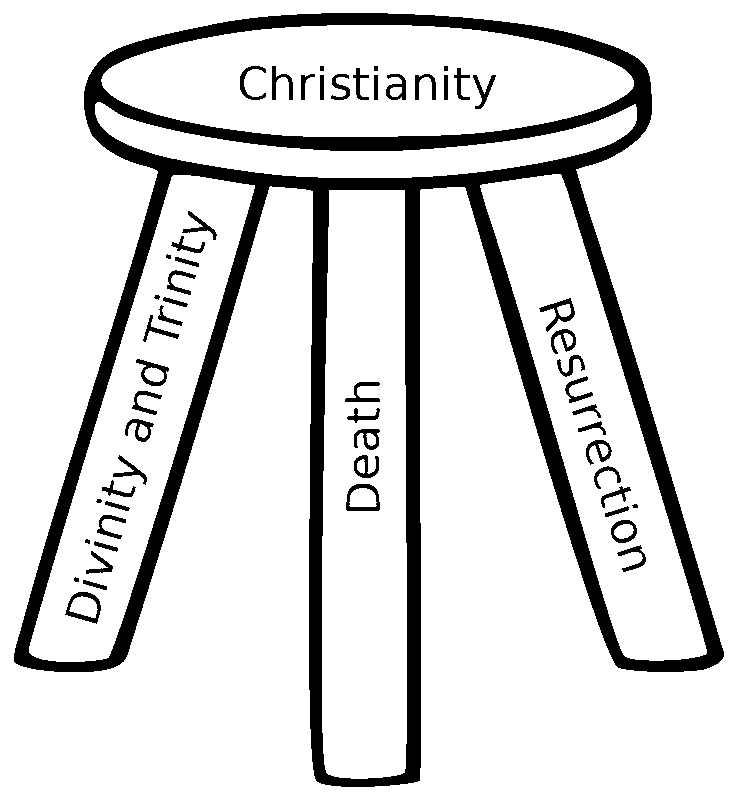
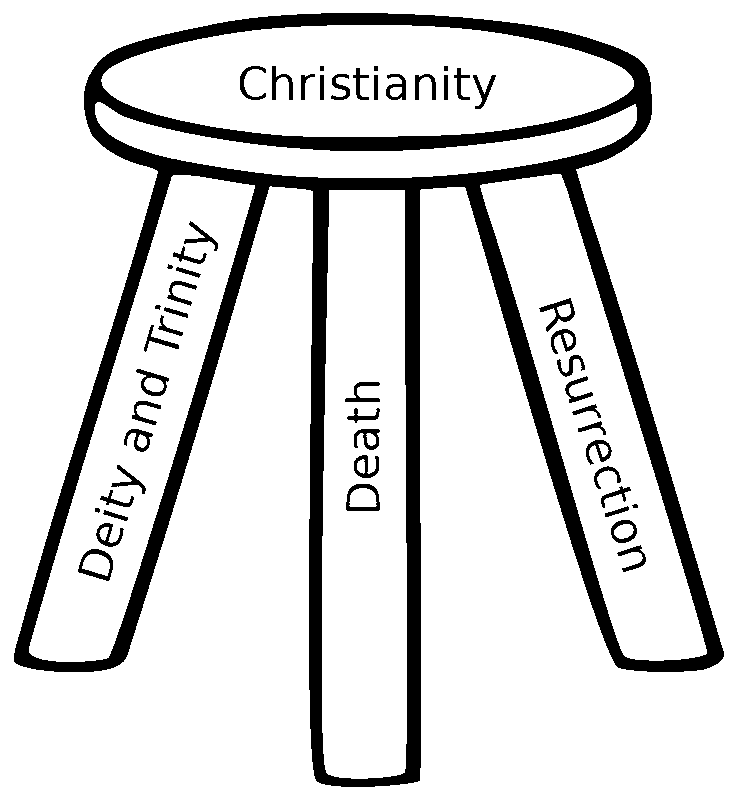
Add content, correct typos

Changed region(s): [[0.0935, 0.25, 0.3117, 0.7812]]

diff --git a/CriticalThinking.html b/CriticalThinking.html
@@ -1,4 +1,4 @@
-<html>
+<html >
 <head>
 	<title>Critical Thinking</title>
 	<link rel="stylesheet" type="text/css" href="static/admin/css/dashboard.css" >
@@ -18,22 +18,19 @@
 		.append($('<a>').attr({"href":"#PartsCriticalThinking"}).text("Parts of Critical Thinking").css({"fontSize":15,"font-weight":"bold"}))))
 		.append($('<div>').attr({"class":"row"})
 		.append($('<div>').attr({"style":"margin-left:25px;"})
-		.append($('<a>').attr({"href":"#ProofEvidence"}).text("Proof vs Evidence").css({"fontSize":15,"font-weight":"bold"}))))
-		.append($('<div>').attr({"class":"row"})
-		.append($('<div>').attr({"style":"margin-left:25px;"})
 		.append($('<a>').attr({"href":"#TypesReasoning"}).text("Types of Reasoning").css({"fontSize":15,"font-weight":"bold"}))))
 		.append($('<div>').attr({"class":"row"})
 		.append($('<div>').attr({"style":"margin-left:25px;"})
-		.append($('<a>').attr({"href":"#BoundariesAuthority"}).text("Boundaries of Authority").css({"fontSize":15,"font-weight":"bold"}))))
+		.append($('<a>').attr({"href":"#TerminologyRegardingFacts"}).text("Terminology Regarding Facts").css({"fontSize":15,"font-weight":"bold"}))))
 		.append($('<div>').attr({"class":"row"})
 		.append($('<div>').attr({"style":"margin-left:25px;"})
-		.append($('<a>').attr({"href":"#MythFact"}).text("Myth vs Fact").css({"fontSize":15,"font-weight":"bold"}))));
+		.append($('<a>').attr({"href":"#BoundariesAuthority"}).text("Boundaries of Authority").css({"fontSize":15,"font-weight":"bold"}))))
 		
 	}
 </script>
 
 
-<body onload="init_page_critcal_thinking()">
+<body onload="init_page_critcal_thinking()", spellcheck="true">
 	<div class="container-fluid">
 	    <div class="row">
 			<div id="SideBarMenu", class="col-md-2", style="border: 1px solid;">
@@ -57,28 +54,13 @@
 						<br>
 						<ol>
 							<li><b>Facts</b> from a source that is trusted and independent.  It is crucial that the source be independent, which, in this context, generally means secular, as opposed to a religious source that could be biased towards Christianity.</li>
-							<li><b>Logical reasoning</b>, in it’s various forms, to analyze claims against Christianity and to create strong claims for Christianity using independent facts.  However, we must also understand that it is impossible to logically prove matters of faith, as once the foundations of Christianity are proven true, it is no longer a matter faith.  Indeed, God may have intentionally set up the universe such that His existence can <b>not</b> be proven.</li>
+							<br>
+							<li><b>Logical reasoning</b>, in it’s various forms, to analyze claims against Christianity and to create strong claims for Christianity using independent facts.  However, we must also understand that it is impossible to logically prove matters of faith, as once the foundations of Christianity are proven true, it is no longer a matter of faith.  Indeed, God may have intentionally set up the universe such that His existence can <b>not</b> be proven.</li>
 						</ol>
 						<br>
 						<p>Again, the importance of integrity and honesty in this process cannot be overstated.  Christian apologetics has reputation for  dishonesty, and that reputation is very likely deserved.</p>
 						<br>	
 					</div>
-					
-					<div id="ProofEvidence", class="scroll-page">
-						<h3><bold>Proof vs Evidence and Truth vs Fact</bold></h3>
-						<br>
-						<p >In critical thinking, we must first understand the difference between prood, and the difference between truth and fact.  A famous line from <cite><b>Indiana Jones and the Last Crusade</b></cite> comes from the scene where Dr. Jones (Indy) is teaching an archaeology class:</p>
-						
-						<p class="bold-center">"Archaeology is the search for fact, not truth. If it's truth you're interested in, Dr. Tyree's Philosophy class is right down the hall."</p>
-						<br>
-						<p>To start with, a fact is any tangible, real-world statment that can verified through demonstration or other <b>objective</b> methods.  It is a concept mostly used in science and history.  A fact becomes evidence when used to validate another statement.</p>
-						<p>There are three types of evidence: scientific, historical, and archaeological.  Science has become the most popular way to try to prove or disprove the existence of God.  However, science is fundamentally incapable of doing either, as science is confined to explaining and studying the universe, and, assuming God created the universe, He must exist outside of the 4-dimensional (space-time) universe, as we know it.  History is the “systematic study of the past” using various sources (typically documents or other types of records).  While history is not considered as reliable and objective as science, it can be used to verify past events and connect them together to propose hypothesis of other events.  Archaeology can serve as a type of historical source when more straightforward records have not been found.</p>
-						<br>
-
-						<p>Truth is a more abstract concept most often used in philosophy (logic) and mathematics. Proof is anything that demonstrates, with 100% certainty, that something is true.  Unlike facts, truth cannot be verified using objective methods, like experiments.  In <b>John 18:38</b> when Jesus talks about Truth, Pilate retorts "What is truth?".  This is not to say that truth cannot have an absolute basis.</p>
-						<p >There are two types of proof: direct proof, and indirect proof (also known as proof by contradiction).  Direct proof is the simplest and most commonly used proof, where something is proven true.  Proof by contradiction (PbC), on the otherhand, is a bit more complex.  PbC tries to prove something true by demonstrating that it cannot be false (need example). A simple example could be an alibi given by someone suspected of a crime who claims to be innocent.  Someone else says the suspect was with them somewhere else at the time the crime was committed and therefore could not have committed the crime.  They can't be guilty, so they must be innocent.</p>
-						<br>
-					</div>							
 					<div id="TypesReasoning", class="scroll-page">
 						<h3>Types of Reasoning</h3>
 						<br>
@@ -86,38 +68,69 @@
 						<br>
 						<p ><b>Deductive reasoning</b> is the use of a general theory or concept and applying more specific additional statements to narrow down to a specific conclusion that is considered 100% true.  The most famous example starts with the general theory that “All men are mortal”.  It is followed by a specific statement that “Socrates is a man”, which narrows to the conclusion that “Socrates is mortal”.</p>
 						<br>
-						<p><b>Inductive reasoning</b>, on the other hand, takes a number of consistent observations or facts, and draws a more general consclusion or theory. The scientific method is a form of inductive reasoning.</p>
+						<p><b>Inductive reasoning</b>, on the other hand, takes a number of consistent observations or facts, and draws a more general conclusion or theory. The scientific method is a form of inductive reasoning.</p>
 						<br>
 						<p ><b>Abductive reasoning</b> seeks the most likely explanation, given a set of observations.  The following is one of Sherlock Holmes' more famous quotes:</p>
 						<br>
 						<p class="bold-center">When you have eliminated the impossible, whatever remains, however improbable, must be the truth.</p>
 						<br>
-						<p style="text-indent: 0px;">A principle called <a href="https://en.wikipedia.org/wiki/Occam's_razor"><b>Occam's Razor</b></a> states that, among multiple explanations for an event or phenomenon, the one that is the simplest and makes the fewest assumptions is generally the best.  This reasoning is often used by <a href="https://en.wikipedia.org/wiki/Analysis_of_competing_hypotheses">intelligence analysts at places like the CIA and FBI</a> to decide what most likely happened or is likely to happen.  While it gives the most likely explanation, it does not eliminate doubt or the possiblity of error.  The conclusions of intelligence analyses generally have a "confidence level" applied to them. </p>
+						<p style="text-indent: 0px;">A principle called <a href="https://en.wikipedia.org/wiki/Occam's_razor"><b>Occam's Razor</b></a> states that, among multiple explanations for an event or phenomenon, the one that is the simplest and makes the fewest assumptions is generally the best.  This reasoning is often used by <a href="https://en.wikipedia.org/wiki/Analysis_of_competing_hypotheses">intelligence analysts at agencies like the CIA and FBI</a> to decide what most likely happened or is likely to happen.  While it gives the most likely explanation, it does not eliminate doubt or the possibility of error.  The conclusions of intelligence analyses generally have a "confidence level" applied to them. </p>
 						<br>
-						<p style="text-indent: 0px;"><i>Of the three types of reasoning described, so far, abductive reasoning is likely to be the most useful for supporting the Resurrection.</i></p>
+						<p style="text-indent: 0px;"><i>Of the three types of reasoning described, so far, abductive reasoning is likely to be the most useful for supporting the claims of Christianity.</i></p>
 						<br>
-						<p ><b>Analogical reasoning</b> is the use of analogies or parallels to argue a point or solve a problem.  At one point, for example, the internet seemed to have a fondness for explaining various things using car analogies.  A fairly common method of analogical reason found in a variety of professions is using scale models or mockups of something to solve a problem or think through a design.  Jesus’ parables could be seen as a form of analogical reasoning or explanation.</p>
+						<p ><b>Analogical reasoning</b> is the use of analogies or parallels to argue a point or solve a problem.  At one point, for example, the internet seemed to have a fondness for explaining various things using car analogies.  A fairly common method of analogical reason found in a variety of professions is using scale models or mock-ups of something to solve a problem or think through a design.  Jesus’ parables could be seen as a form of analogical reasoning or explanation.</p>
 						<br>
 					</div>		
+					
+					<div id="TerminologyRegardingFacts", class="scroll-page">
+						<h3><bold>Terminology Regarding Facts</bold></h3>
+						<br>
+						<p >In critical thinking, we must first understand several key terms in the context of statements and claims of fact.  A famous line from <cite><b>Indiana Jones and the Last Crusade</b></cite> comes from the scene where Dr. Jones (Indy) is teaching an archaeology class:</p>
+						
+						<p class="bold-center">"Archaeology is the search for fact, not truth. If it's truth you're interested in, Dr. Tyree's Philosophy class is right down the hall."</p>
+						<br>
+						<ol>
+							<li><b>Empirical:</b> (Oxford Dictionary) "based on, concerned with, or verifiable by observation or experience rather than theory or pure logic."</li>
+							<br>
+							<li><b>Fact:</b> any tangible, real-world statement that can verified through demonstration or other <b>empirical</b> methods.  It is a concept mostly used in natural science and history.</li>
+							<br>
+							<li><b>Evidence:</b> a fact used to validate another statement.</li>
+							<br>
+							<li><b>Truth:</b> a more abstract concept most often used in philosophy (logic) and mathematics.  Truth could be seen as a "universally accepted fact" although, unlike facts, truth cannot be verified using empirical methods, like experiments.  In <b>John 18:38</b> when Jesus talks about Truth, Pilate retorts "What is truth?".  This is not to say that truth cannot have an absolute basis.</li>
+							<br>
+							<li><b>Proof:</b> anything that demonstrates, with 100% certainty, that something is true.</li>
+							<br>
+							<li><b>Myth:</b> (from the Oxford Dictionary) "a traditional story, especially one concerning the early history of a people or explaining some natural or social phenomenon, and typically involving supernatural beings or events".  Unfortunately, it is most commonly used as a slang, to indicate a false belief, and it's correct meaning has been obscured.</li>
+							<br>
+							<li><b>Hypothesis:</b> a preliminary explanation for a set of observed facts.  It is generally the result of inductive reasoning.</li>
+							<br>
+							<li><b>Theory:</b> a hypothesis that has been thoroughly tested by further experimentation.</li>							
+							<br>
+						</ol>
+						<p>There are three types of evidence: <b>scientific, historical, and archaeological</b>.  Science has become the most popular way to try to prove or disprove the existence of God.  However, natural science is fundamentally incapable of doing either, as natural science is confined to explaining and studying the universe, and, assuming God created the universe, He must exist outside of the 4-dimensional (space-time) universe, as we know it.  History is the “systematic study of the past” using various sources (typically documents or other types of records).  While history is not considered as reliable and objective as natural science, it can be used to verify past events and connect them together to propose hypothesis of other events.  Archaeology can serve as a type of historical source when more straightforward records have not been found.</p>
+						<br>
+						<p >There are two types of proof: <b>direct proof</b>, and <b>indirect proof</b> (also known as proof by contradiction).  Direct proof is the simplest and most commonly used proof, where something is proven true.  Proof by contradiction (PbC), on the other-hand, is a bit more complex.  PbC tries to prove something true by demonstrating that it cannot be false.  A simple example could be an alibi given by someone suspected of a crime who claims to be innocent.  Someone else says the suspect was with them somewhere else at the time the crime was committed and therefore could not have committed the crime.  They can't be guilty, so they must be innocent.</p>
+						<br>
+					</div>							
 					<div id="BoundariesAuthority", class="scroll-page">
 						<h3><bold>Boundaries of Authority</bold></h3>
 						<br>
-						<p>One of the core beliefs of evangelicalism, and especially fundamentalism, is the authority of the Bible.  While this certainly is a foundational belief in Christianity, it is often taken too far, resulting in the Bible given ultimate authority in areas where it should not have the highest authority (history), and even where it should have little to no authority (science).  The same can be said for science, where atheists and agnostics will argue that evolution has proven God’s existence and Creationism to be fictitious (or at least unnecessary), as we now have a better understanding of how life came to be (although our understanding is still limited).</p>
+						<p>One of the core beliefs of evangelicalism, and especially fundamentalism, is the authority of the Bible.  While this certainly is a foundational belief in Christianity, it is often taken too far, resulting in the Bible given ultimate authority in areas where it should not have the highest authority (history), and even where it should have little to no authority (natural science).  The same can be said for natural science, where atheists and agnostics will argue that evolution has proven God’s existence and Creationism to be fictitious (or at least unnecessary), as we now have a better understanding of how life came to be (although our understanding is still limited).</p>
 						<br>
-						<p>The Bible has no more authority in matters of science than a history book has in solving a math problem.  They are mutually exclusive, not because they are in conflict, but because they are completely different subjects, having no overlap.  Again, in <b>2nd Timothy</b>, Paul states “All Scripture is God-breathed and is useful for <u>teaching, rebuking, correcting and training in righteousness…</u>”.  The Bible is, first and foremost, a document about faith, spirituality, Christian living, and prophecy, and holds the highest authority only in those specific topics.</p>
+						<p>The Bible has no more authority in matters of natural science than a history book has in solving a math problem.  They are mutually exclusive, not because they are in conflict, but because they are completely different subjects, having no overlap.  Again, in <b>2nd Timothy</b>, Paul states “All Scripture is God-breathed and is useful for <u>teaching, rebuking, correcting and training in righteousness…</u>”.  The Bible is, first and foremost, a document about faith, spirituality, Christian living, and prophecy, and holds the highest authority only in those specific topics.</p>
 						<br>
-						<p>Likewise, science has no authority or relevance in matters of religion and spiritually, both of which can be  categorized as supernatural.  More specifically, science is not capable of proving or disproving God’s existence.  Assuming God created the universe, He must exist outside of it.  Science is limited to the study and understanding of the universe, thus it cannot be applied to anything outside of the universe.</p>
+						<p>Likewise, natural science has no authority or relevance in matters of religion and spiritually, both of which can be  categorized as supernatural.  More specifically, natural science is not capable of proving or disproving God’s existence.  Assuming God created the universe, He must exist outside of it.  Natural science is limited to the study and understanding of the universe, thus it cannot be applied to anything outside of the universe.</p>
 						<br>
 					</div>
-					<div id="MythFact", class="scroll-page">
-						<h3><bold>Myth vs Fact</bold></h3>
-						<br>
-						<p>The term “myth” is crucial in this context, but unforetunately, it is most commonly used as a slang, and it's correct meaning has been obscured.  While the most common current meaning is a “false belief”, the correct definition is:</p>
-						<br>
-						<p class="bold-center">“a traditional story, especially one concerning the early history of a people or explaining some natural or social phenomenon, and typically involving supernatural beings or events”  (Oxford dictionary)</p>
-						<br>
-						<p>The phrase “Creation myth” is valid only with the correct definition of myth.</p>
-						<br>
+					<div class="row">
+						<div class="col-md-3">
+						</div>
+						<div class="col-md-6" style="text-align: center;">
+							<h3 >So much for "keeping it simple"...</h3>
+							<span style="font-size: 150px;">🙄</span>
+						</div>
+						<div class="col-md-3">
+						</div>
 					</div>
 				</div>
 

diff --git a/Faith.html b/Faith.html
@@ -42,50 +42,48 @@
 					<div id="RealFundamentals",class="scroll-page">
 						<h3><bold>What are the REAL fundamentals of Christianity?</bold></h3>
 						<br>
-						<p >Historically, Christian fundamentalism was a reaction to the late 19th century liberal theology that resulted from the Age of Enlightenment.  Liberal Christianity placed reason and modern knowledge over traditional doctrinal authority, and sought to view traditional Christian belief through the lens of natural explanations, such as evolution.  In some cases, this has gone as far as denying the divinity of Christ and focusing on his teachings, instead.</p>
+						<p >Historically, Christian fundamentalism was a reaction to the late 19th century liberal theology that resulted from the Age of Enlightenment.  Liberal Christianity placed reason and modern knowledge over traditional doctrinal authority, and sought to view traditional Christian belief through the lens of natural explanations.  In some cases, this has gone as far as denying the deity of Christ, and focusing on his teachings, instead.</p>
 						<br>
-						<p >Fundamentalism’s initial intent was to defend essential beliefs of Christianity.  These are Christ’s divinity, atoning death, and Resurrection, as well as the Bible’s authority, though they expanded the scope of that authority into areas of facts and evidence.  Fundamentalists also considered Biblical inerrancy to be an essential doctrine, even though it wasn’t considered to be official doctrine in mainstream Protestanism and Catholicism, at the time.</p>
+						<p >Fundamentalism’s initial intent was to defend essential beliefs of Christianity.  These are Christ’s deity, atoning death, and Resurrection, as well as the Bible’s authority, though they expanded the scope of that authority into areas of facts and evidence.  Fundamentalists also considered Biblical inerrancy to be an essential doctrine, even though it wasn’t considered to be official doctrine in mainstream Protestantism and Catholicism, at the time.</p>
 						<br>
 					</div>
 					<p ></p>
 					<br>
-					<h3>Christ's DDR: Divinity, Death, and Resurrection</h3>
-					<br>
-					<div class="row">
-						<div class="col-md-4"></div>
-						<div class="col-md-4">
-							<image style="text-align: center; font-size: 35;width: 100%;" src="static/admin/images/ThreeLeggedStoolDoctrine.png"></image>
+					<div id="DDR" , class="scroll-page">
+						<h3>Christ's DDR: Deity, Death, and Resurrection</h3>
+						<br>
+						<div class="row">
+							<div class="col-md-4"></div>
+							<div class="col-md-4">
+								<image style="text-align: center; font-size: 35;width: 90%;" src="static/admin/images/ThreeLeggedStoolDoctrine.png"></image>
+							</div>
+							<div class="col-md-4"></div>
 						</div>
-						<div class="col-md-4"></div>
+						<br>
+						<p >This is the "3-legged stool" of Christianity.  There is <b>no</b> compromise on this.  If you remove one of the legs, Christianity comes crashing down.</p>
+						<p>There are, however, variations or disagreements on the details of each of those "legs".  </p>
+						
+						<p>Jesus was fully man <b>and</b> fully God.  The deity of Christ is explicitly mentioned in the Bible, with Thomas the Doubter exclaiming <i>"My Lord and my God!</i>" in John 20:28.  It is also stated in John 1:1 <i>"...the Word was <b>with</b> God and the the Word <b>was</b> God"</i>.  The original Greek word for "Word" is <a target="_blank" href="https://en.wikipedia.org/wiki/Logos"><b>Logos</b></a>, which has a much deeper meaning than "word", such as Divine Reason, and likely originated from Greek philosophy.  While the word "Trinity" is not explicitly used in the Bible, it is implied with phrases like "Father, Son, and Holy Spirit".  There is also John 8:58 <i>"...before Abraham was, I am"</i>.  This verse is particularly intriguing, as Jesus seems to claim two things.  First, in addition to being the Son, He also <b>IS</b> the Father, Yahweh (also see Isaiah 9:6, "Everlasting Father").  Second, He exists simultaneously in the past and present, and thus must exist outside of time, as we understand it.</p>
+						<br>
+						<p >Jesus' death on the cross comes from the Old Testament Jewish tradition of sacrificing an unblemished animal, often a lamb, for the sins of the people or an individual.  He is often referred to as the "Lamb Of God", where God offers His own Son as a perfect, sinless final sacrifice for all the sins of humanity, substituting Christ in place of a fallen humanity.  It is formally referred to as the Substitutionary Atonement, or just Atonement.  An Old Testament foreshadowing of this comes when God tests Abraham by telling him to sacrifice Isaac <b>(Genesis 22)</b>, his only son with Sarah, where, at the last moment, the Angel of the Lord stops Abraham and provides a ram to sacrifice in Isaac's place.</p>
+						<br>
+						<p >Jesus' Resurrection from the dead defeated sin, death, and Satan.  It also proved His Deity.  While Jesus' life and death are broadly accepted by historians and scholars, the Resurrection is highly debated.  There are records from Roman, Greek, and Jewish historians of His life and death, but nothing about His Resurrection.  However, this may be because it was so scandalous and embarrassing for both the Jewish and the Roman authorities: <b>They killed the Messiah, the Son of God!</b>  To record it was to acknowledge that it really happened.  Think of all the scandals that politicians and the wealthy elites try to cover-up.</p>
+						<br>
+						<p >However, while there is no record of the Resurrection outside of the Bible, there are independent (non-Christian) historical records that could be used as evidence to make a compelling case for it.  One such <a target="_empty" href="https://www.perseus.tufts.edu/hopper/text?doc=Perseus%3Atext%3A1999.02.0078%3Abook%3D15%3Achapter%3D44"><b>record</b></a> was written by Cornelius Tacitus, a well known and respected historian in ancient Rome who, it would seem, did not hold the early Christians in high regard.</p>
+						<br>
+						<p ></p>
 					</div>
-					<br>
-					<p >This is the "3-legged stool" of Christianity.  There is <b>no</b> compromise on this.  If you remove one of legs, Christianity comes crashing down.</p>
-					<p>There are, however, variations or disagreements on the details of each of those "legs".  </p>
-					<p>The Divinity of Christ and the Trinity have various explanations </p>
-					<br>
-					<p ></p>
-					<br>
-					<p ></p>
-					<br>
-					<p ></p>
-					<h3>Biblical Authority</h3>
-					<br>
-					<p ></p>
-					<br>
-					<p ></p>
-					<br>
-					<p ></p>
-					<br>
-					<p ></p>
-					<h3><bold></bold></h3>
-					<br>
-					<p ></p>
-					<br>
-					<p ></p>
-					<br>
-					<p ></p>
-					<br>
-					<p ></p>
+					<div id="BiblicalAuthority", class="scroll-page">
+						<h3>Biblical Authority</h3>
+						<br>
+						<p >As has been mentioned elsewhere on this site, arguably the most direct statement regarding the authority of the Bible is <b>2nd Timothy 3:16</b>, where Paul states “All Scripture is God-breathed and is useful for teaching, rebuking, correcting and training in righteousness…”.  In matters of faith, Christian living, and prophecy, the Bible has the ultimate authority.  However, fundamentalist Christianity has extended this authority beyond the boundaries of spirituality and into areas that were, very likely, never intended or considered by the authors.  This is primarily the case with natural science, although history has probably also been affected by this encroachment.</p>
+						<br>
+						<p >British theologian and Anglican bishop <a target="_empty" href="https://en.wikipedia.org/wiki/N._T._Wright"><b>N.T. Wright</b></a> takes a different, intriguing <a target="_empty" href="https://en.wikipedia.org/wiki/N._T._Wright"><b>approach</b></a> on the subject of the Bible's authority.  In this article, he suggests that evangelical Christians, particularly in North America, have approached the Bible as a book of rules and doctrines, instead of a narrative of God deeply desiring a relationship with humanity.</p>
+						<br>
+						<p ></p>
+						<br>
+						<p ></p>
+					</div>
 				</div>
 			</div>
 			<div id="RightSideBarMenu", class="col-md-2", style="border: 1px solid;">

diff --git a/ContradictionOrParadox.html b/ContradictionOrParadox.html
@@ -1,6 +1,6 @@
 <html>
 <head>
-	<title>Christian Skeptic: Contradiction Or Paradox?</title>
+	<title>Christian Skeptic: Contradiction?</title>
 	<link rel="stylesheet" type="text/css" href="static/admin/css/dashboard.css" >
     <link rel="stylesheet" type="text/css" href="static/admin/css/bootstrap.css" >
     <link rel="stylesheet" type="text/css" href="static/admin/css/bootstrap-theme.css">
@@ -18,7 +18,7 @@
 			</div>
 			<div id="MainContent", class="col-md-8", style="border: 1px solid;">
 				<div id="Heading" class="row content-heading">
-					<h3>Christian Skeptic: Contradiction Or Paradox?</h3>
+					<h3>Christian Skeptic: A Contradiction?</h3>
 				</div>
 				<div id="Content" class="row scroll-container">
 					<p>At first glance, the term Christian Skeptic may appear to be a contradiction, but we need to understand some terms, first.</p>
@@ -37,11 +37,11 @@
 					<br>
 					<p>If Christianity is true, there must be at least some reliable historical (and possibly archaeological) evidence for it.  It cannot be overstated that this evidence must be carefully vetted and independent (i.e. from a secular source).  Arguably the most popular non-Christian evidence for Christianity is the Testimonium Flavianum, by Josephus Flavius, which states that Jesus “was the Christ”.  Unforetunately, historians and scholars are divided as to it’s <a target="_blank" href="https://www.earlychristianwritings.com/testimonium.html"><b>authenticity</b></a>, where some regard it as a forgery, while others say it was corrupted or interpolated.</p>
 					<br>
-					<p>	In our search for evidence, history is the best source.  Science has become a popular method for trying to prove God’s existence or refute evolution.  However, this only distracts us from gathering evidence specifically for Christianity.  After all, even if you prove God exists, <b>which</b> God is it?  The Judeo/Christian God?  Allah?  Brahma, the Hindu God?  Ahura Mazda, the Zoroastrian God?</p>
+					<p>	In our search for evidence, an historical approach is the best strategy.  Science has become a popular method for trying to prove God’s existence or refute evolution.  However, this only distracts us from gathering evidence specifically for Christianity.  After all, even if you prove God exists, <b>which</b> God is it?  The Judeo/Christian God?  Allah?  Brahma, the Hindu God?  Ahura Mazda, the Zoroastrian God?</p>
 					<br>
 					<p>To seek better understanding of Scriptures, we need to focus on history first, then culture and languages <!--(?? what order ??)--> and avoid letting theology have too much influence our interpretation, as most theology is, itself, the result of interpretation.  We don’t need to be fluent in Hebrew and Greek, but a working understanding of key words is important (the more, the better). <!--(??????????????)-->.</p>
 					<br>
-					<p>While personal testimony can be useful <!--(????HOW???)-->, we must balance the personal side with solid logic and honest critical thinking.  Christian apologetics has a reputation for weak arguments and dishonesty.  While weak logic is understandable, dishonesty in this area is unacceptable as it only ends up discrediting us<!--(???HOW???)-->.  Honest critical thinking is admitting we could be wrong, or don’t have an answer to a question.  It is acknowledging when a non-believer has a good argument against a belief or claim, and seeking a better understanding of it (their evidence or logic may be flawed under the surface).</p>
+					<p>While personal testimony can be useful by showing a changed life, not everyone will be convinced by testimony, and we <b>must</b> balance the personal side with solid logic, facts, and honest critical thinking.  Christian apologetics has a reputation for weak arguments and dishonesty.  While weak logic is understandable, dishonesty in this area is unacceptable as it only ends up discrediting us<!--(???HOW???)-->.  Honest critical thinking is admitting we could be wrong, or don’t have an answer to a question.  It is acknowledging when a non-believer has a good argument against a belief or claim, and seeking a better understanding of it (their evidence or logic may be flawed under the surface).</p>
 					<br>
 					<p>Finally (and probably most controversially), we need to accept that, outside of prophecy and  teachings of faith and morality, the Bible may not be inerrant.  In <b>2 Timothy 3:16-17</b>, Paul states “All Scripture is God-breathed and is useful for teaching, rebuking, correcting and training in righteousness, so that the servant of God may be thoroughly equipped for every good work.”  Nowhere does Paul mention anything about historical or scientific accuracy, as neither are relevant to matters of faith and spirituality.</p>
 					<br>

diff --git a/QuestioningFaith.html b/QuestioningFaith.html
@@ -27,7 +27,7 @@
 					<br>
 					<p style="text-indent:25px;">Many believers will, at some point in their life, start questioning their faith and having doubts about some of their beliefs.  They  may also feel this is a sign of weak faith, and for fear of being judged for this by fellow believers, they could end up stuggling in silence, with the Enemy whispering “Everyone else seems strong in <b>their</b> faith and filled with God’s joy.  Why aren’t <b>you</b>?  What’s wrong with you?”   This doubt could be the result of a negative event or situation in their life (wondering if God is truly good), learning about some fact that would seem to contradict some part of their beliefs (wondering if God is real), or what seems to be a contradiction between to passages in the Bible.  In psychology, this is called <a target="_blank" href="https://en.wikipedia.org/wiki/Cognitive_dissonance">cognitive dissonance </a>.</p>
 					<br>
-					<p style="text-indent:25px;">While we may fear doubt, it can sometimes be a <b>good</b> thing!  It's important to keep in mind that, while unbelief is a sin, doubt is <b>not</b> unbelief.  Even Jesus was tempted.  The saying “In the middle of difficulty lies opportunity” is often attributed to Albert Einstein, and refers to using a difficulty as a chance to learn and grow.  You may heard phrases like “learning experience” or “teachable moment” in the context of learning from a mistake.</p>
+					<p style="text-indent:25px;">While we may fear doubt, it can sometimes be a <b>good</b> thing!  It's important to keep in mind that, while unbelief is a sin, doubt is <b>not</b> unbelief.  Even Jesus was tempted.  The saying “In the middle of difficulty lies opportunity” is often attributed to Albert Einstein, and refers to using a difficulty as a chance to learn and grow.  You may have heard phrases like “learning experience” or “teachable moment” in the context of learning from a mistake.</p>
 					<br>
 					<p style="text-indent:25px;">In the movie Wall Street, Gordon Gecko (played my Michael Douglas) gives the following famous monologue:</p>
 					<br>

diff --git a/static/admin/css/christian-skeptics.css b/static/admin/css/christian-skeptics.css
@@ -11,8 +11,8 @@ a{
 
 html,
 body {
-	/*overflow-y: hidden;
-	display: flex;*/
+	overflow-y: hidden;
+	/*display: flex;*/
 	height: 100%;
 }
 
@@ -29,6 +29,8 @@ h3 {
 
 li {
 	font-size: 20;
+	margin-left: 70px;
+	margin-right: 70px;
 }
 
 .content-heading{
@@ -41,20 +43,19 @@ li {
 .scroll-container {
 	max-height: 90%;
 	overflow-y: scroll;
-	scroll-behavior: auto;
+	overflow-x: hidden;
 }
 
 .scroll-page {
   /*display: flex;height: 100%;
   align-items: center;
   justify-content: center;*/
-  
+
 }
 
 .bold-center {
 	margin-left: 200px;
-	margin-right: 250px; 
+	margin-right: 250px;
 	font-size:20;
 	font-weight: bold;
 }
-
